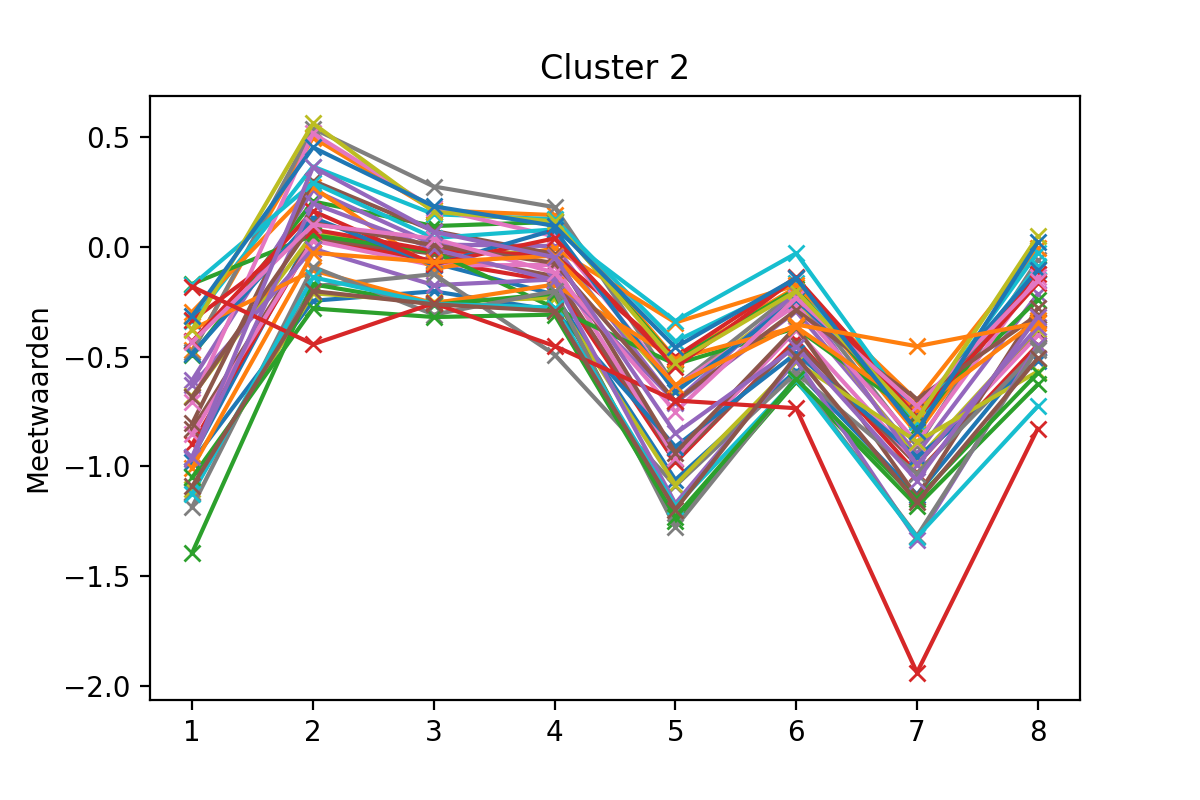
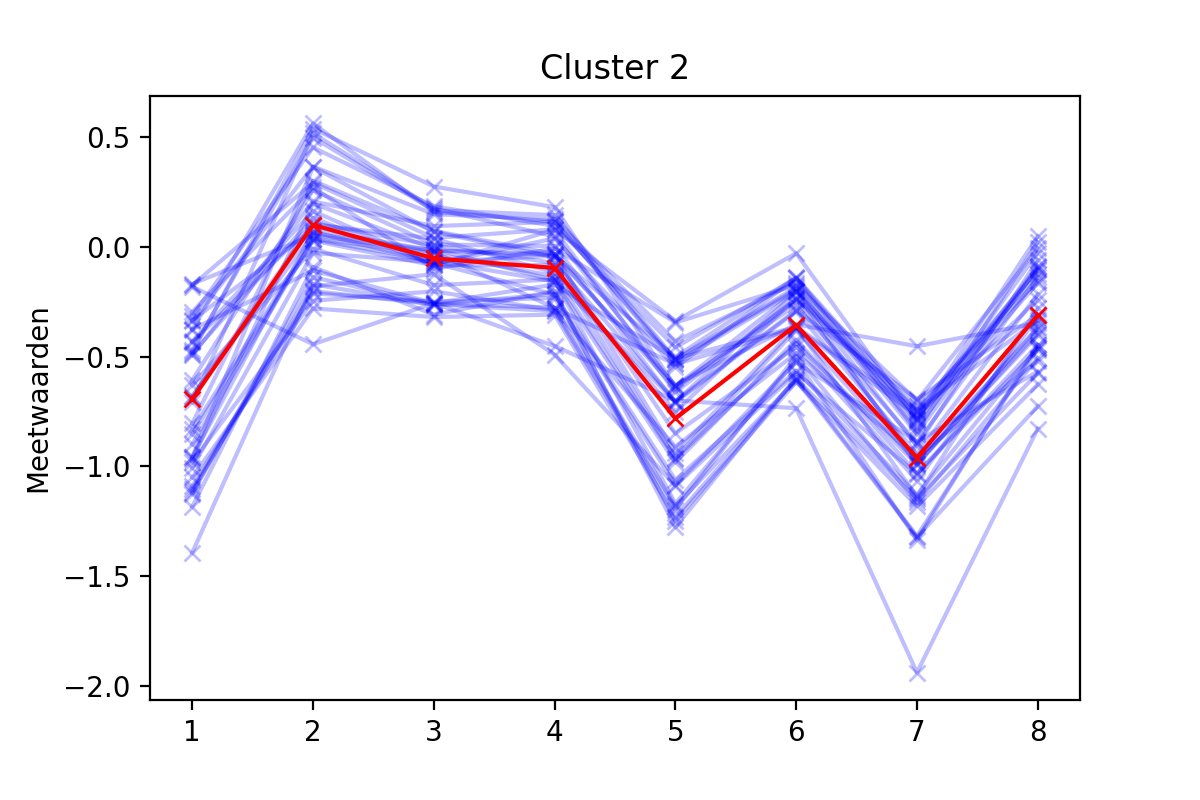
Toevoegen van het clustergemiddelde en aanpassing van comments.

Changed region(s): [[0.1542, 0.125, 0.8942, 0.75], [0.74, 0.7188, 0.8017, 0.8438]]

diff --git a/expressie_families.py b/expressie_families.py
@@ -27,12 +27,12 @@ def expressie(cluster_invoer, cluster_uitvoer, cluster_nummer=0):
 
     Formaat: meetmoment op x-as, relatieve expressiewaarde op y-as.
     """
-    # inlezen van databestanden 'cluster_invoer' en 'cluster_resultaat'.
+    # inlezen van databestanden 'cluster_invoer' en 'familie_resultaat'.
     with open(cluster_invoer) as cluster_invoer:
         cluster_invoer_data = cluster_invoer.read().split()
         cloneID_lijst = list(map(int, cluster_invoer_data[::9]))
 
-    with open(cluster_resultaat) as cluster_uitvoer:
+    with open(familie_resultaat) as cluster_uitvoer:
         cluster_uitvoer = cluster_uitvoer.read().split()[2:]
         cluster_uitvoer_data = list(map(int, cluster_uitvoer))
 
@@ -44,6 +44,7 @@ def expressie(cluster_invoer, cluster_uitvoer, cluster_nummer=0):
     # lijst aanmaken genaamd 'cluster_lijst' die de clusters bevatten.
     cluster_lijst = cluster_uitvoer_data[1::2]
 
+    # lijst aanmaken van cloneIDs uit 'familie_resultaat'.
     cloneID_lijst = cluster_uitvoer_data[0::2]
 
     cloneID_dict = {}
@@ -56,8 +57,6 @@ def expressie(cluster_invoer, cluster_uitvoer, cluster_nummer=0):
     for cluster in range(len(cluster_lijst)):
         cloneID_dict[cluster_lijst[cluster]].append(
             cloneID_lijst[cluster])
-
-    print(cloneID_dict)
 
     # genereer een lijst met integers 1 t/m 8 voor de plot.
     x_axis = list(range(1, 9))
@@ -86,8 +85,8 @@ def expressie(cluster_invoer, cluster_uitvoer, cluster_nummer=0):
 
 
 cluster_invoer = "Data/Voorbeeld_clusterdata.txt"
-cluster_resultaat = "Data/CloneIdFamily.txt"
+familie_resultaat = "Data/CloneIdFamily.txt"
 
 # aanroepen van functie expressie() voor alle 26 families.
 for i in range(1, 27):
-    expressie(cluster_invoer, cluster_resultaat, i)
+    expressie(cluster_invoer, familie_resultaat, i)

diff --git a/expressie_clusters.py b/expressie_clusters.py
@@ -55,16 +55,27 @@ def expressie(cluster_invoer, cluster_uitvoer, cluster_nummer=0):
         cloneID_dict[cluster_lijst[cluster]].append(
             cloneID_lijst[cluster])
 
-    print(cloneID_dict)
-
     # genereer een lijst met integers 1 t/m 8 voor de plot.
     x_axis = list(range(1, 9))
+
+    som = [0] * 8
+    iteratie = 0
 
     # plot alle meetwaarden van de cloneIDs in een bepaalde cluster en
     # stel de plottitel en astitels in.
     for nummer in cloneID_dict[cluster_nummer]:
         ind = cluster_invoer_data.index(nummer)
-        plt.plot(x_axis, cluster_invoer_data[ind+1:ind+9], '-x')
+        plt.plot(x_axis, cluster_invoer_data[ind+1:ind+9], 'b-x', alpha=0.25)
+
+        # optellen van expressiewaarden en opslaan in 'som'.
+        z = zip(som, cluster_invoer_data[ind+1:ind+9])
+        som = [x + y for (x, y) in z]
+        iteratie += 1
+
+    # gemiddelde berekenen van alle expressiewaarden per colom.
+    gemiddelde = [num/iteratie for num in som]
+
+    plt.plot(x_axis, gemiddelde, 'r-x')
 
     plt.ylabel("Meetwaarden")
     plt.title("Cluster" + " " + str(cluster_nummer))
